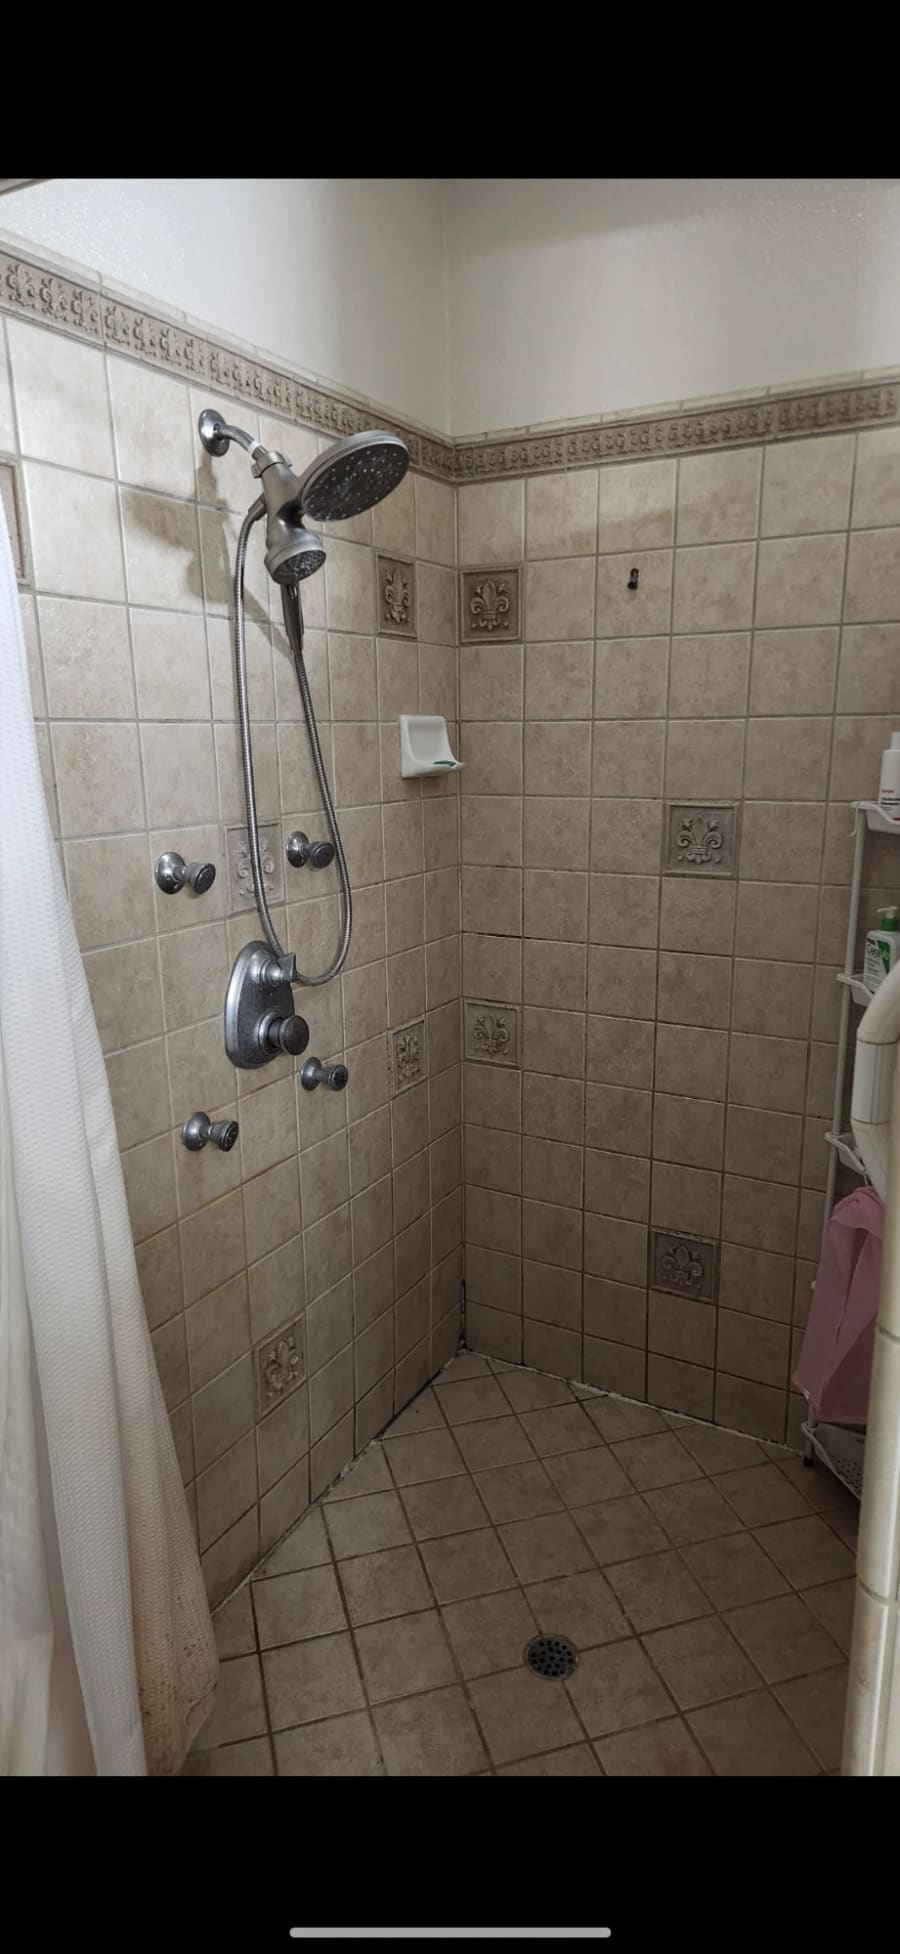
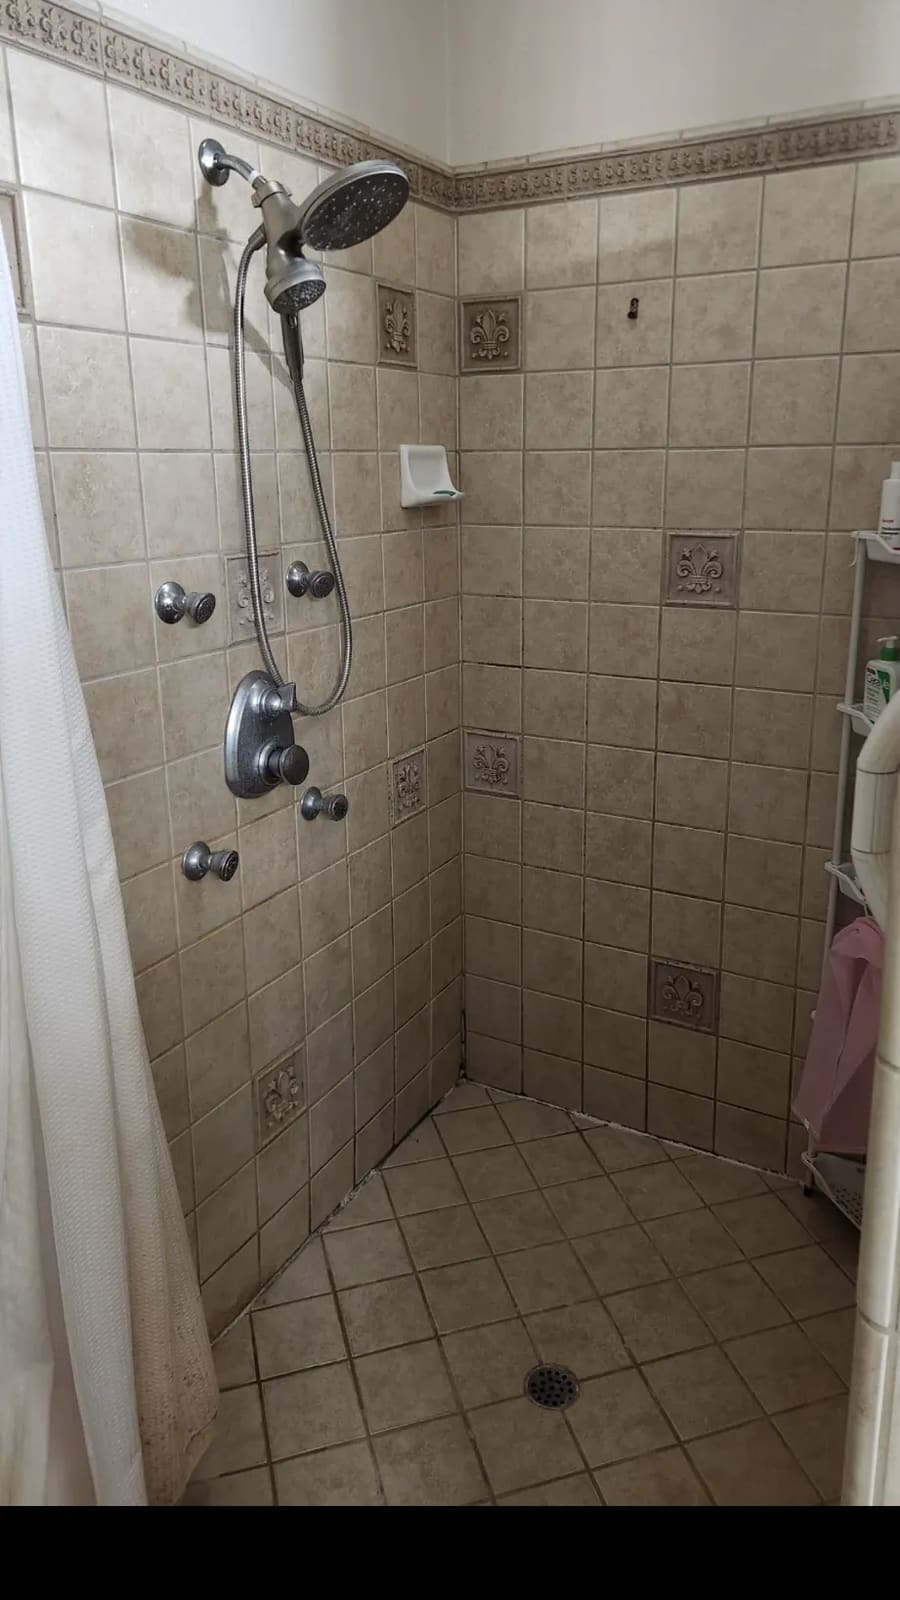
Fix screenshot-look before photo; senior-friendly project with shower photo; drain + solid-surface details

diff --git a/src/components/sections/FeaturedRemodels.tsx b/src/components/sections/FeaturedRemodels.tsx
@@ -15,14 +15,16 @@ const PROJECTS = [
     afterAlt: "Primary bathroom remodeling in Sacramento after — walk-in tile shower, pebble floor, and double floating wood vanity",
   },
   {
-    title: "Full Bath Remodel",
+    title: "Senior-Friendly Full Bath Remodel",
     city: "Sacramento Area",
-    type: "Bathroom",
-    scope: "Taken to the studs — new fluted vanity, LED mirror, floating shelves, and tile flooring.",
+    type: "Aging-in-Place",
+    scope: "We removed a closet and expanded into the hallway to make this bathroom senior-friendly — curbless walk-in shower with grab bar, plus a new fluted vanity, LED mirror, and tile flooring.",
     before: "/photos/full-bathroom-remodel-sacramento-before.jpg",
     after: "/photos/full-bathroom-remodel-sacramento-after.jpg",
+    after2: "/photos/tile-shower-conversion-sacramento.jpg",
     beforeAlt: "Full bathroom remodeling in Sacramento during demolition — wallpaper removed and dated cherry vanity torn out",
-    afterAlt: "Full bathroom remodel in Sacramento after — fluted wood vanity, quartz top, LED mirror, and floating shelves",
+    afterAlt: "Senior-friendly bathroom remodel in Sacramento after — fluted wood vanity, quartz top, LED mirror, and floating shelves",
+    after2Alt: "Senior-friendly curbless walk-in shower in Sacramento with grab bar, matte black rainfall fixtures, and marble hex floor",
   },
   {
     title: "Walk-In Shower Remodel",
@@ -77,7 +79,7 @@ export default function FeaturedRemodels() {
           overflow: "hidden",
         }}
       >
-        <div className="fr-photos" style={{ display: "grid", gridTemplateColumns: "1fr 1fr", gap: 2, background: "rgba(20,17,13,0.08)" }}>
+        <div className="fr-photos" style={{ display: "grid", gridTemplateColumns: project.after2 ? "1fr 1fr 1fr" : "1fr 1fr", gap: 2, background: "rgba(20,17,13,0.08)" }}>
           <figure style={{ margin: 0, position: "relative", background: "var(--color-cream-100)" }}>
             <span
               style={{
@@ -114,6 +116,26 @@ export default function FeaturedRemodels() {
               style={{ width: "100%", height: 460, objectFit: "contain", display: "block" }}
             />
           </figure>
+          {project.after2 && (
+            <figure style={{ margin: 0, position: "relative", background: "var(--color-cream-100)" }}>
+              <span
+                style={{
+                  position: "absolute", top: 14, left: 14, zIndex: 2,
+                  fontFamily: "monospace", fontSize: 11, fontWeight: 700, letterSpacing: "0.14em",
+                  padding: "5px 10px", background: "var(--color-gold-500)",
+                  color: "var(--color-navy-900)", borderRadius: 4,
+                }}
+              >
+                AFTER
+              </span>
+              <img
+                src={project.after2}
+                alt={project.after2Alt}
+                className="fr-img"
+                style={{ width: "100%", height: 460, objectFit: "contain", display: "block" }}
+              />
+            </figure>
+          )}
         </div>
 
         {/* Caption */}

diff --git a/src/app/bathrooms/page.tsx b/src/app/bathrooms/page.tsx
@@ -360,16 +360,21 @@ export default function BathroomsPage() {
             className="design-grid"
           >
             {/* Left: material & workmanship details */}
-            <div style={{ display: "grid", gridTemplateColumns: "1fr 1fr", gap: 12 }}>
+            <div className="design-photos" style={{ display: "grid", gridTemplateColumns: "1fr 1fr 1fr", gap: 12 }}>
               <img
                 src="/photos/shower-niche-tile-detail-sacramento.jpg"
-                alt="Recessed shower niche with mosaic back and stacked tile surround"
-                style={{ height: 300, width: "100%", objectFit: "cover", borderRadius: 12, display: "block" }}
+                alt="Recessed shower niche with mosaic back and stacked tile surround in a Sacramento bathroom remodel"
+                style={{ height: 280, width: "100%", objectFit: "cover", borderRadius: 12, display: "block" }}
               />
               <img
                 src="/photos/brass-tub-filler-tile-detail-sacramento.jpg"
-                alt="Brushed brass tub spout and valve trim on handmade-look tile"
-                style={{ height: 300, width: "100%", objectFit: "cover", borderRadius: 12, display: "block" }}
+                alt="Brushed brass tub spout and valve trim on handmade-look tile in a Sacramento bathroom remodel"
+                style={{ height: 280, width: "100%", objectFit: "cover", borderRadius: 12, display: "block" }}
+              />
+              <img
+                src="/photos/marble-hex-shower-pan-drain-sacramento.jpg"
+                alt="Marble hex mosaic shower pan with square drain in a Sacramento shower remodel"
+                style={{ height: 280, width: "100%", objectFit: "cover", borderRadius: 12, display: "block" }}
               />
             </div>
 

diff --git a/src/app/tub-to-shower/page.tsx b/src/app/tub-to-shower/page.tsx
@@ -436,9 +436,12 @@ export default function TubToShowerPage() {
                 gridTemplateColumns: "215px 1fr",
               }}
             >
-              <div className="sb-photo t2s-card-img" style={{ height: "100%", minHeight: 320, borderRadius: 0 }}>
-                <span className="sb-photo-label">WALL PANEL SHOWER · DROP IN PHOTO</span>
-              </div>
+              <img
+                src="/photos/solid-surface-shower-walls-sacramento.jpg"
+                alt="Marble-look solid-surface shower wall panels with recessed niche in a Sacramento tub-to-shower conversion"
+                className="t2s-card-img"
+                style={{ height: "100%", minHeight: 320, width: "100%", objectFit: "cover", display: "block" }}
+              />
               <div style={{ padding: "26px 28px 28px" }}>
                 <div
                   style={{

diff --git a/src/app/globals.css b/src/app/globals.css
@@ -355,6 +355,13 @@ button { font-family: inherit; cursor: pointer; }
   }
 }
 
+/* ── Bathrooms design & materials detail photos ────────────────────────── */
+@media (max-width: 560px) {
+  .design-photos {
+    grid-template-columns: 1fr !important;
+  }
+}
+
 /* ── Tub-to-shower choice cards (photo on the side) ────────────────────── */
 @media (max-width: 1100px) {
   .t2s-card-split {
